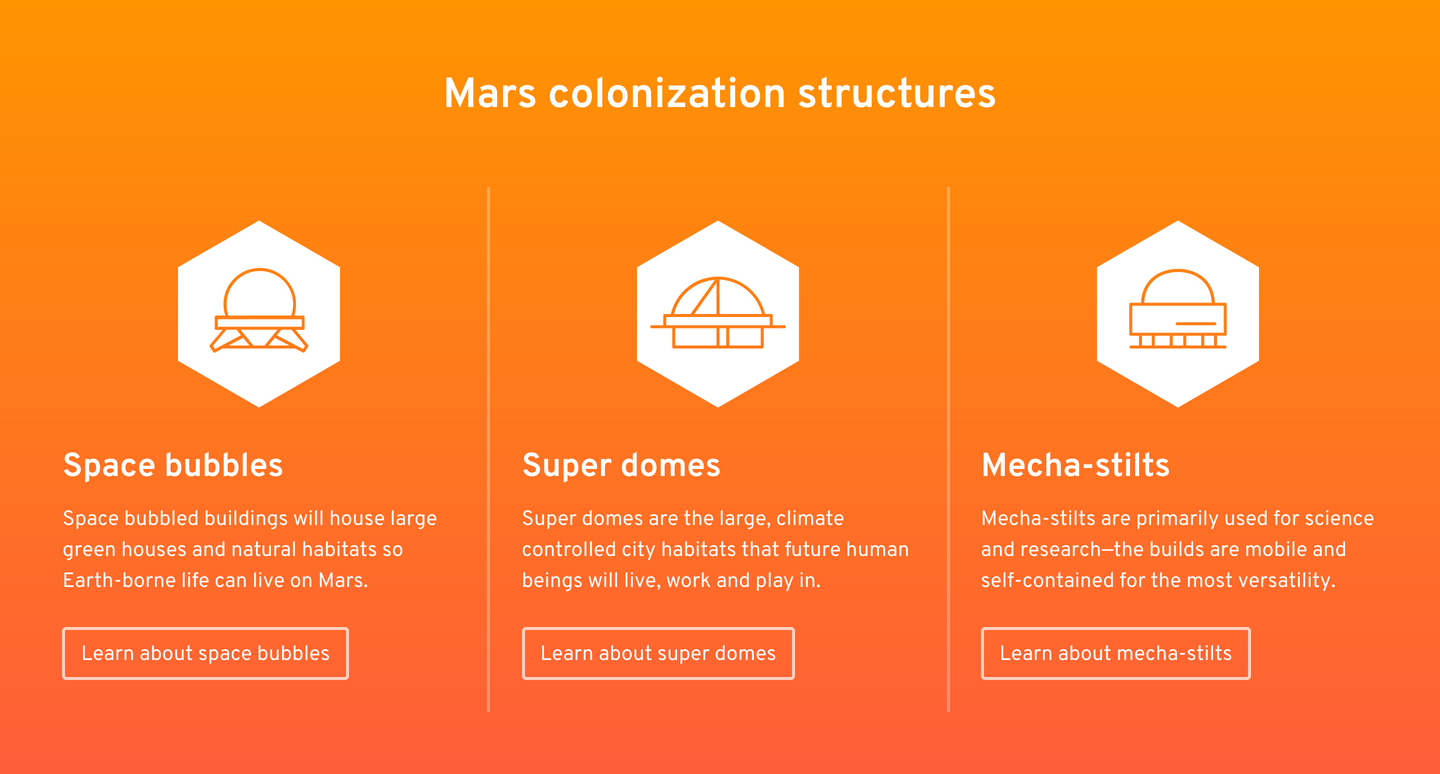
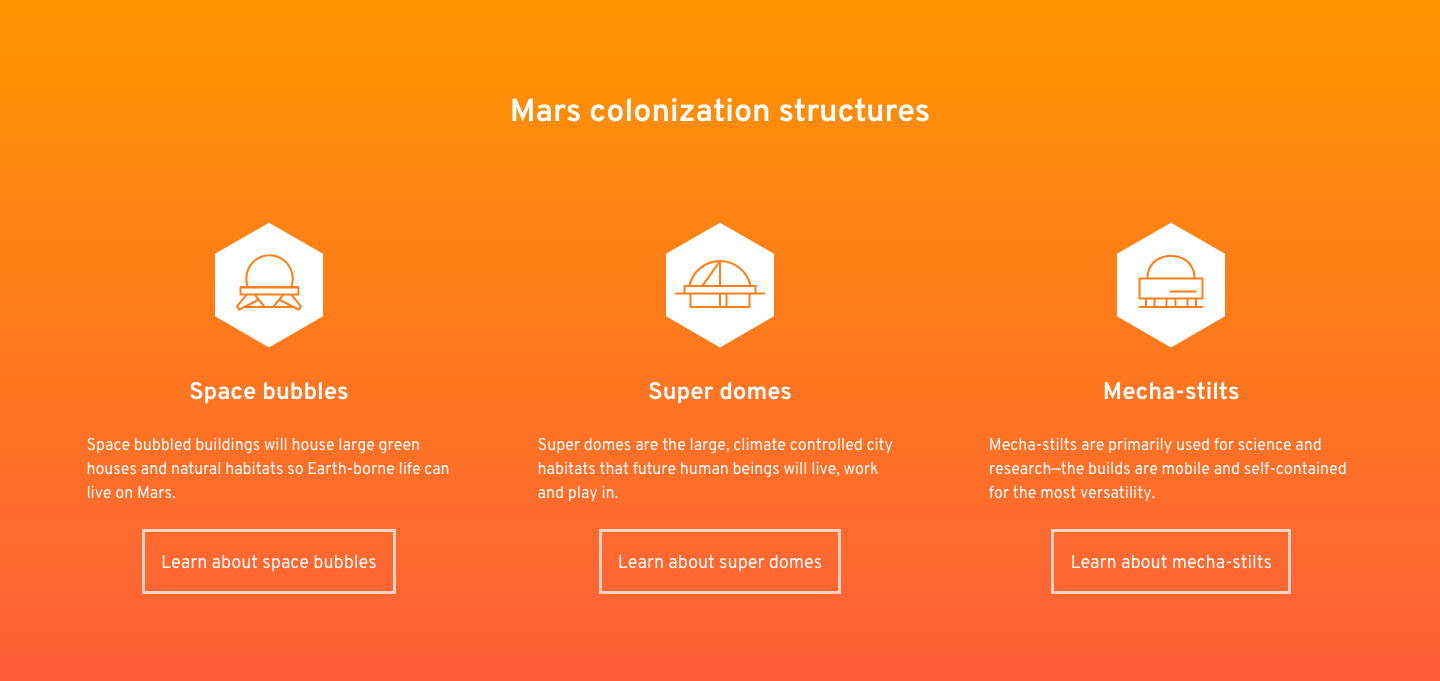
Update the requirements for Web Design 2

diff --git a/README.md b/README.md
@@ -1,8 +1,8 @@
 ---
 summary: 'Use SVG icons sets to create a small layout with different icons.'
-time: '2 hours'
-deliverables: '1 HTML file, 4 CSS files, images'
-download: 'https://assets.learn-the-web.algonquindesign.ca/web-dev-3/svg-icon-sets-download.zip'
+time: '1 hour'
+deliverables: '1 HTML file, 1 CSS file, images'
+download: 'https://assets.learn-the-web.algonquindesign.ca/web-design-3/svg-icon-sets-download.zip'
 ---
 
 # SVG icon sets
@@ -20,11 +20,14 @@ download: 'https://assets.learn-the-web.algonquindesign.ca/web-dev-3/svg-icon-se
 ## Details
 
 - *Typefaces:* `Overpass` (regular & bold)
-- *Colours:* `#fff`, `#ff9500`, `#ff5e3a`, `rgba(255, 255, 255, 1)` (with the alpha adjusted)
-- *Icon size CSS class:* `.i-192`
-- *Gridifier settings:* defaults
-- *Typografier settings:* defaults
-- *Modulifier settings:* select all
+- *Colours:* `#fff`, `#ff9500`, `#ff5e3a`, `rgba(255, 255, 255, .7)`
+- *Icon sizes:* `8rem`
+- *Line-heights:* `1.5`
+- *Font-sizes:* `2rem`, `1.5rem`, `1.125rem`
+- *Gaps:* `6vmin`
+- *Margins:* `1.5rem`
+- *Paddings:* `6vmin`, `1rem`
+- *Border thicknesses:* `.2rem`
 
 ---
 
@@ -33,7 +36,6 @@ download: 'https://assets.learn-the-web.algonquindesign.ca/web-dev-3/svg-icon-se
 Visually match the images in the “screenshots” folder and create the interaction shown in the linked video.
 
 - Final screenshots in the “screenshots” folder.
-- [**Watch this video to see how it interacts.**](https://youtu.be/gIQtPYJ2d3s)
 
 ---
 
